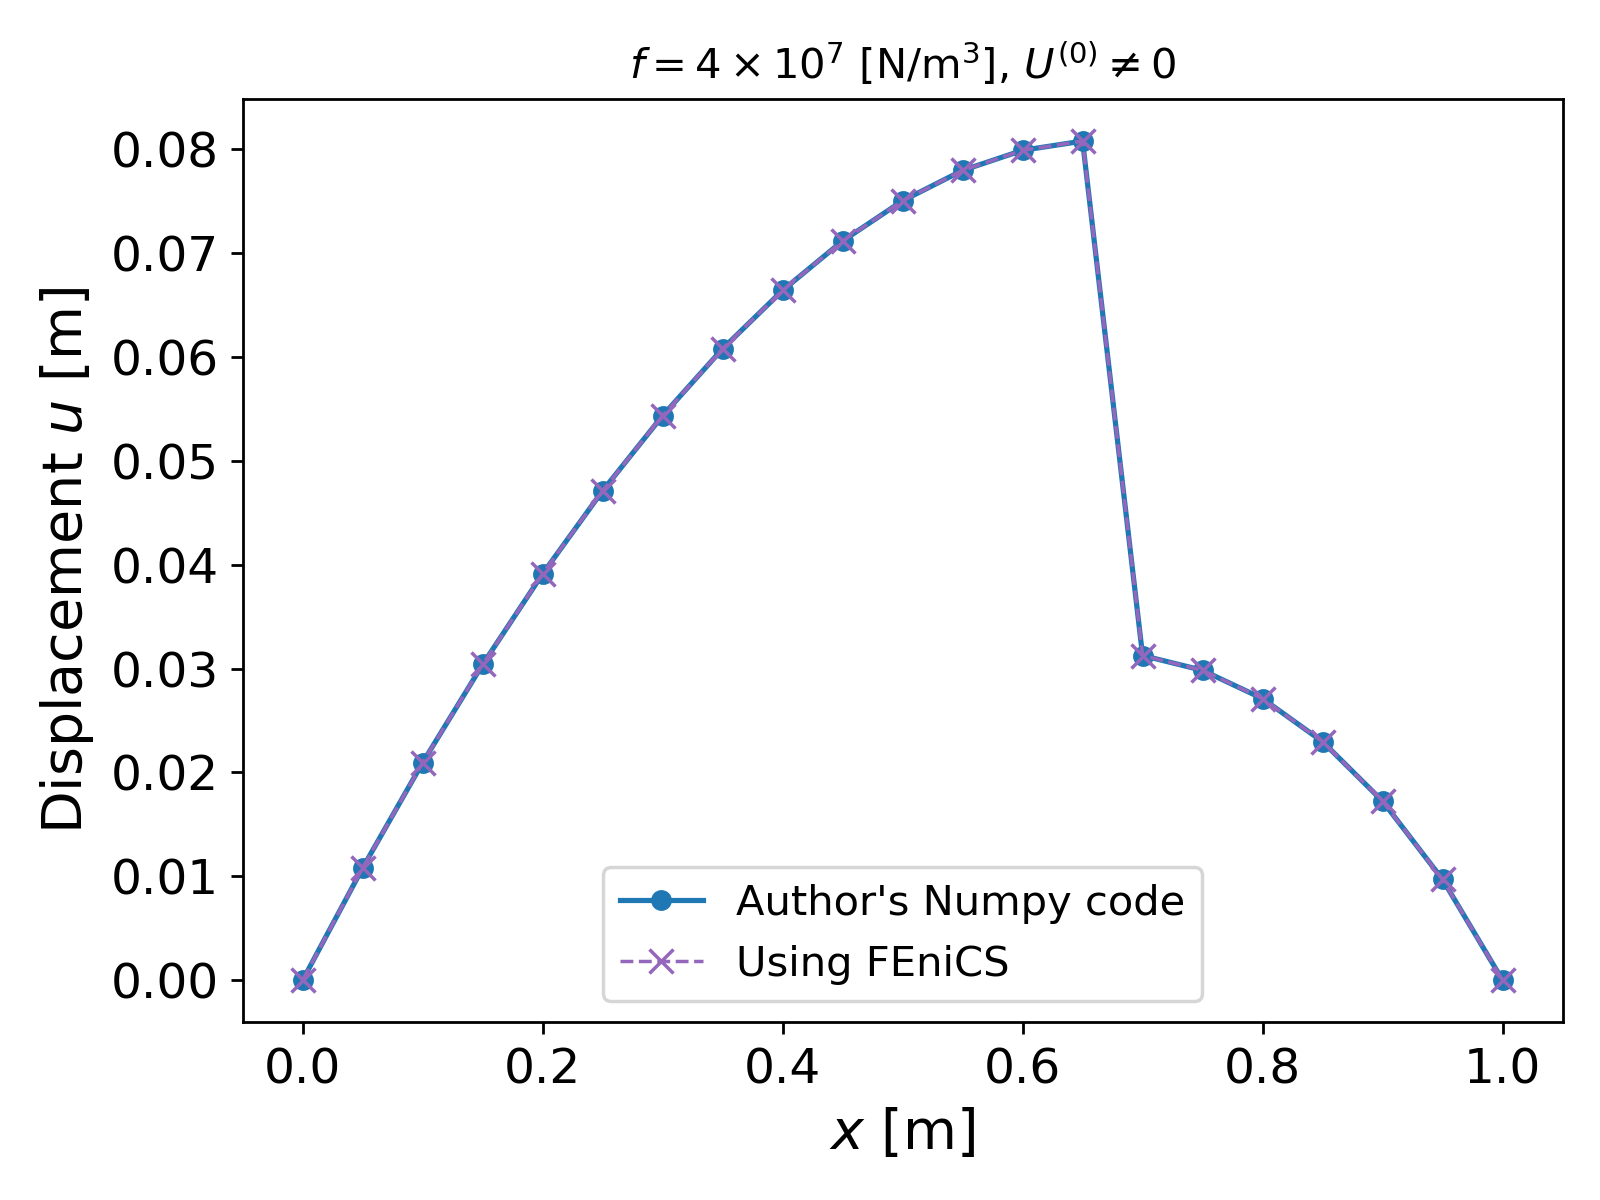
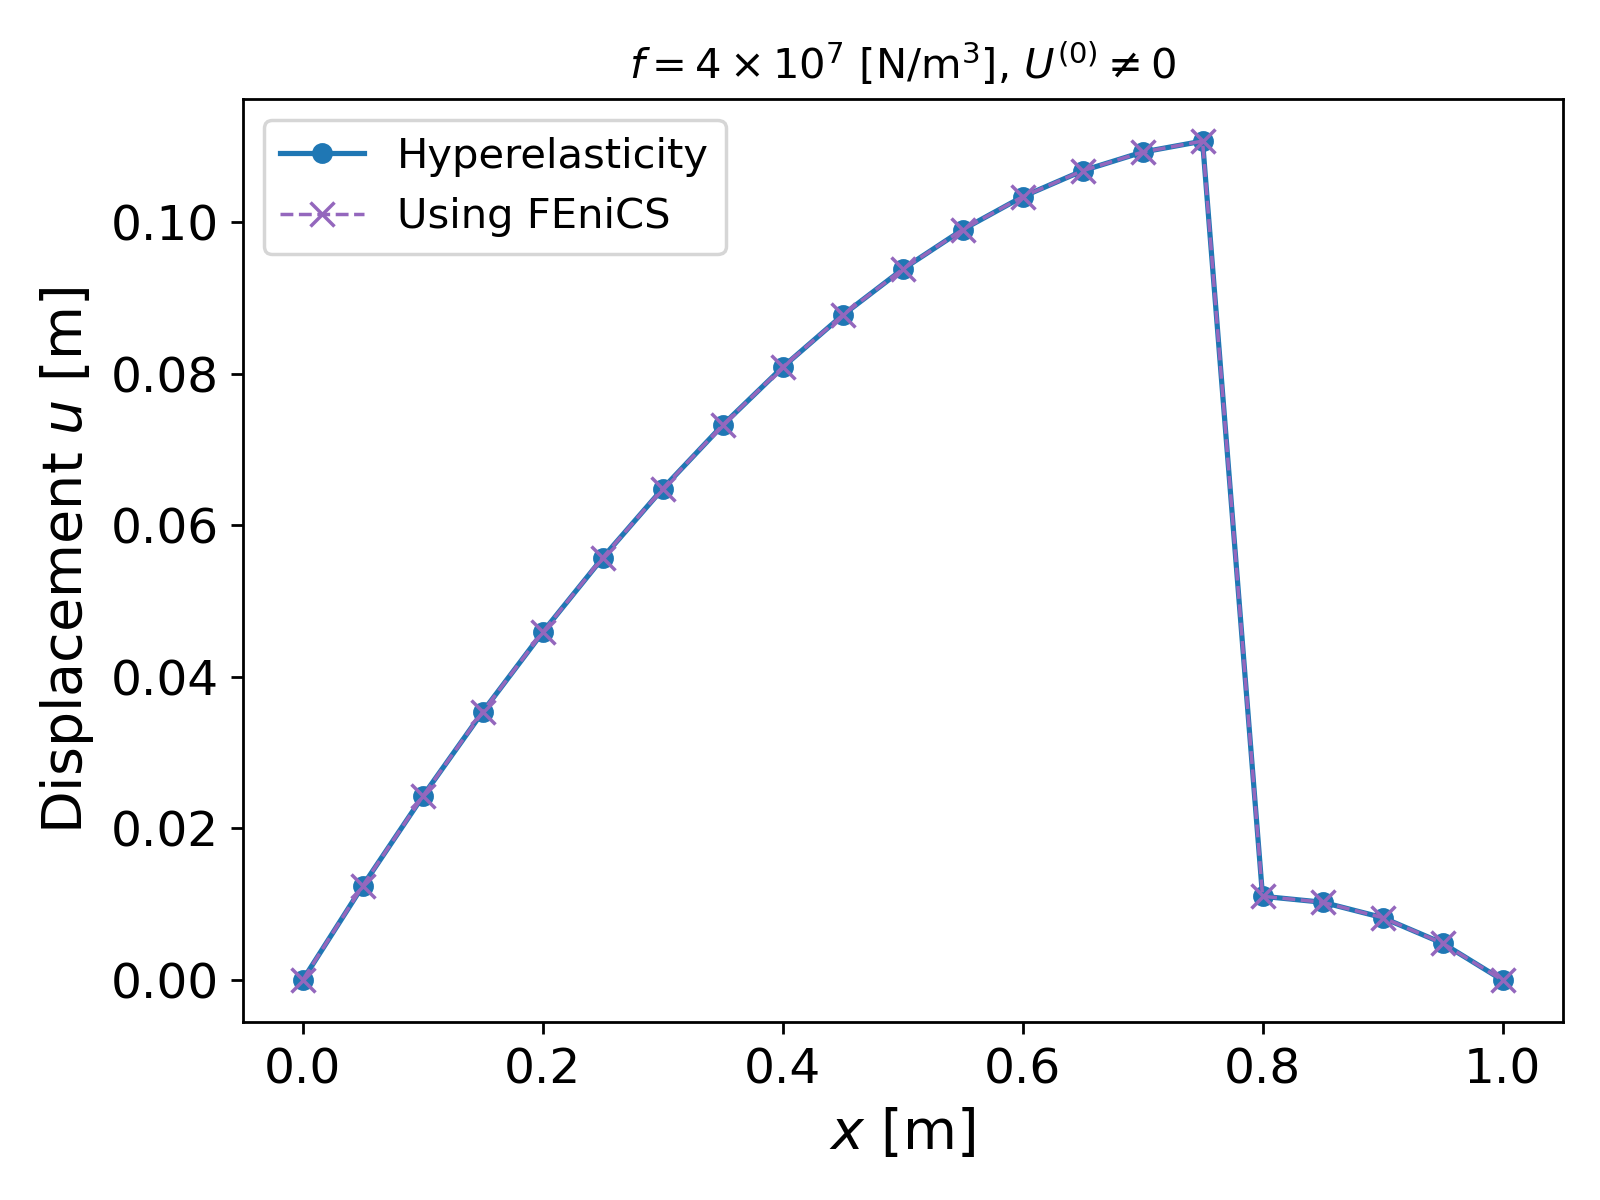
WIP: hyperelasticity

diff --git a/_talks/hyperelasticity1.md b/_talks/hyperelasticity1.md
@@ -235,9 +235,11 @@ We now consider a physical scenario as shown in Fig. 1 with a homogenous materia
 
 It can be observed from Fig. 3. that up to forces of O($10^6$), linear elasticity provides a good approximation and is quite close to the hyperelastic solution. For large magnitude loads, however, the difference in displacements becomes more apparent as seen in the right plot of Fig. 3. This is also consistent with the result in [Ciarlet' 1988, Theorem 6.8-1] which provides an estimate of the difference of the linear elasticity and hyperelasticity displacements up to the norm of $f$.
 
+Also, the linear elastic solution shows that the displacement profile achieves a maximum at the middle node $X = 0.5$, whereas the hyperelastic profile shows that the maximum displacement is more towards the $X = 0.6$ with higher displacement values as well.
+
 On the solver side, Newton's method performs well and converges within $6$ iterations when $f = 4 \times 10^6$ and within $2$ iterations when $f = 10^6$. 
 
-**Robustness of Newton's Method.** We now investigate the robustness of Newton's method to a different initial guess, which ensures the accuracy of the solver and also helps us implement a dynamic time dependent problem later on. Since the solution is close to a parabolic profile, we choose a non-zero initial guess $U^{(0)}(X) = X(1 - X)$. The results are plotted in Fig. 4. 
+**Robustness of Newton's Method.** We now investigate the robustness of Newton's method to a different initial guess, which ensures the accuracy of the solver and also helps us implement a dynamic time dependent problem later on. Since the solution is close to a parabolic profile, we choose a non-zero initial guess $U^{(0)}(X) = 0.9X(1 - X)$ (the $0.9$ factor keeps the condition $F > 0$). The results are plotted in Fig. 4. 
 
 <div align="center">
 <img src='/images/hyperelasticity1/f_large_M_20_1.png' width='380' height='380'>
